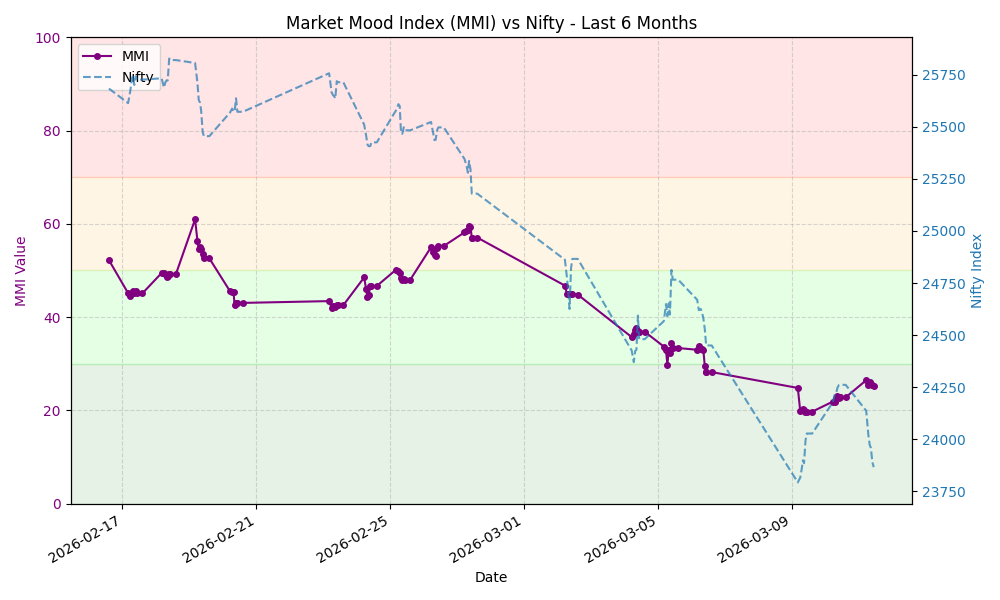
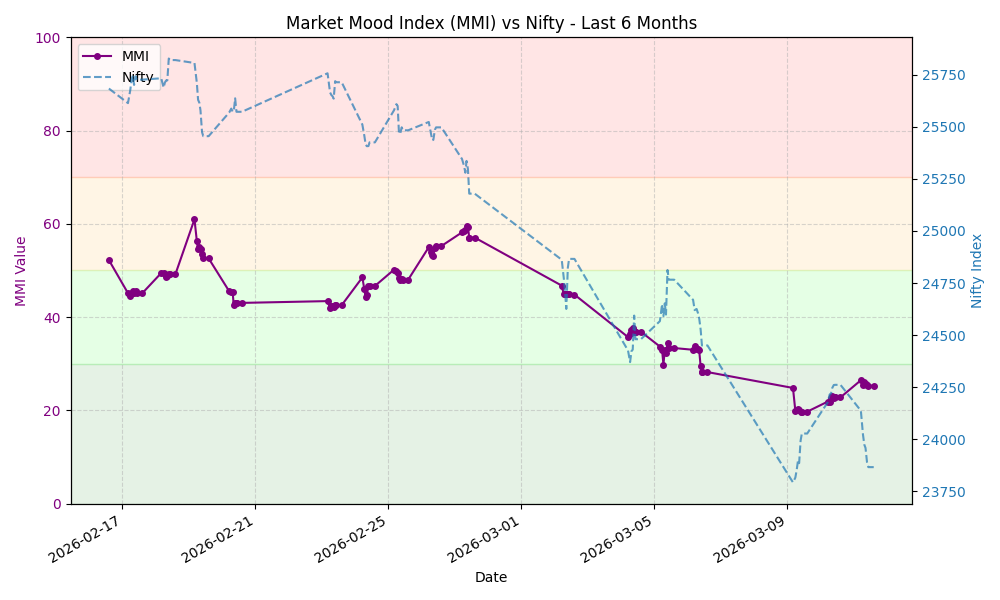
Update MMI data and chart

diff --git a/README.md b/README.md
@@ -8,7 +8,7 @@ This repository automatically fetches the MMI value, stores the history, and gen
 ## Latest MMI Value
 
 **25.29** - **Extreme Fear**
-<small>Last Updated: 2026-03-11 10:27 UTC</small>
+<small>Last Updated: 2026-03-11 14:20 UTC</small>
 
 ## MMI Trend (Last 30 Days)
 
